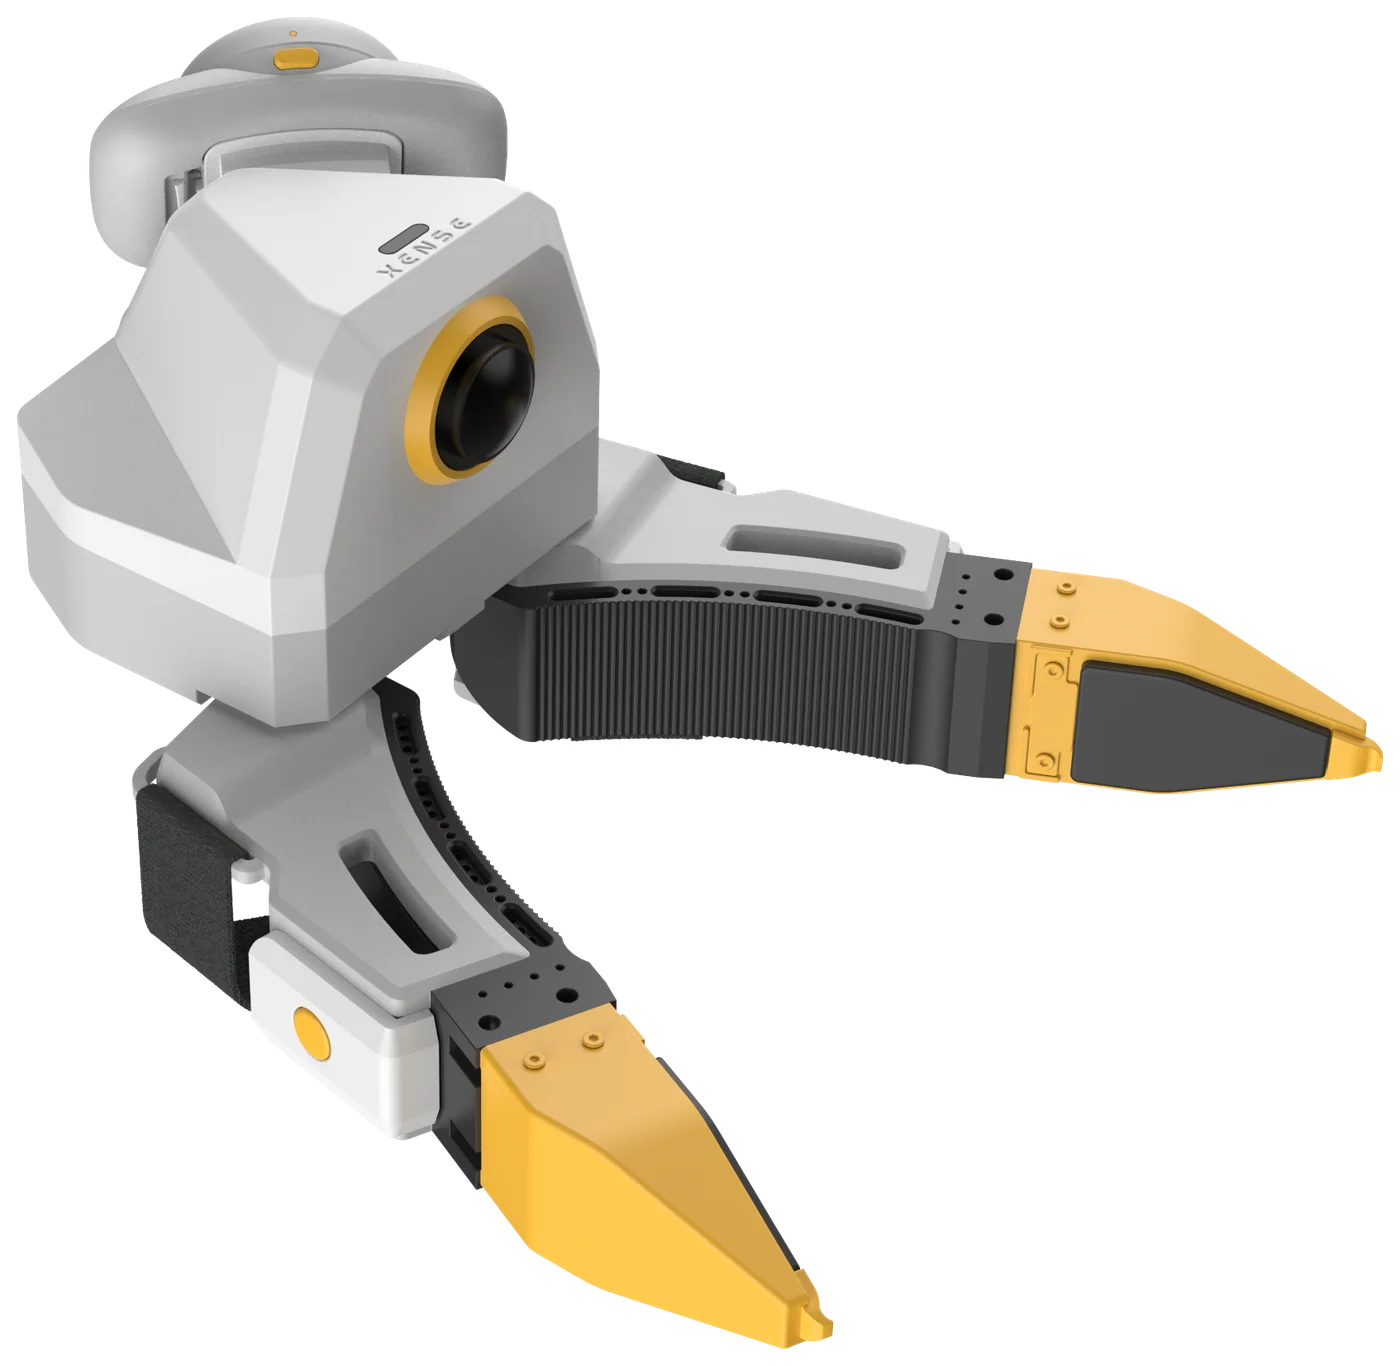
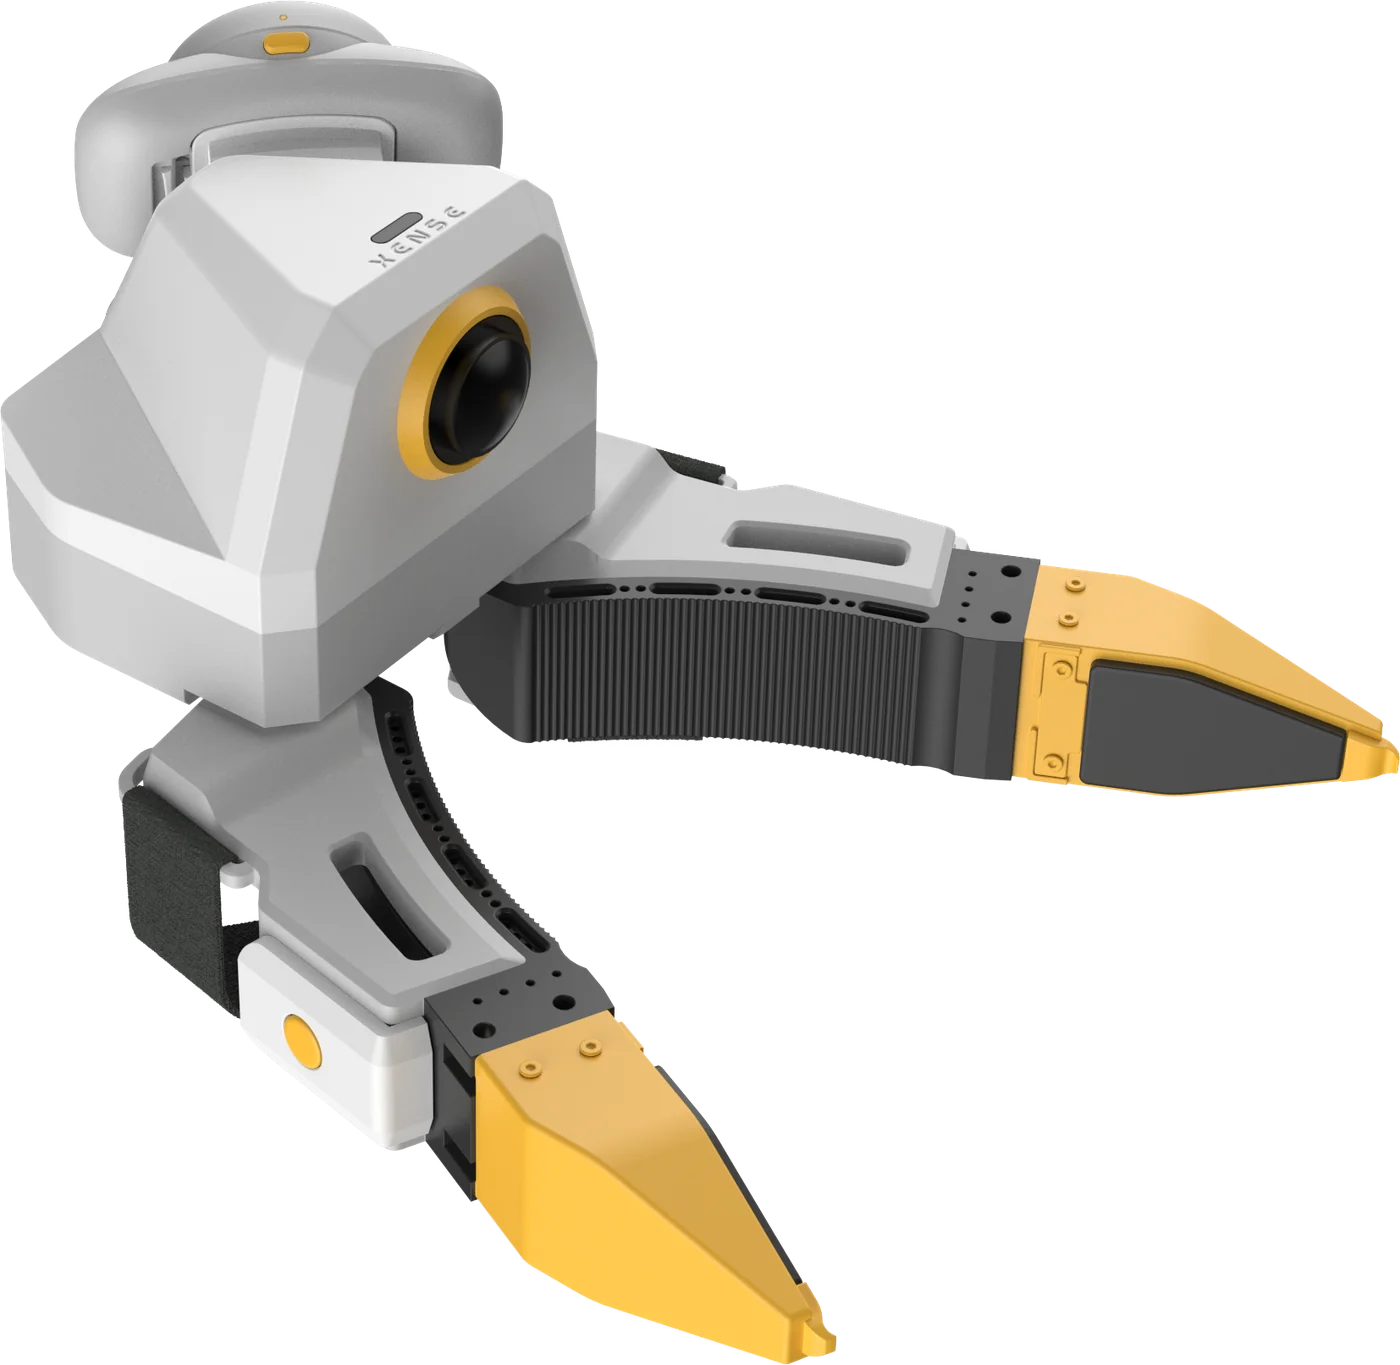
docs: 首页首屏细调:主从夹爪对齐,标题与说明重新排版
- 两栏宽度按两张图的宽高比分配;从夹爪缩到主夹爪高度的 65%,
  下方按比例留白,与主夹爪上下居中,图注在同一行
- 主夹爪抠图重新导出,去掉四周透明边
- 标题分两行、去掉逗号,隐藏首屏标题的 ¶ 锚点
- 说明拆成主句与小字两层,手动分行、行末不加标点,产品名内不折行;
  英文标题与说明收短,手机上标题小一档

diff --git a/docs/assets/stylesheets/extra.css b/docs/assets/stylesheets/extra.css
@@ -17,26 +17,49 @@
   letter-spacing: -.01em;
   color: var(--md-default-fg-color);
 }
-.md-typeset .tc-nowrap {
-  white-space: nowrap;   /* 标题固定在逗号后折行 */
+/* 英文标题更长,字号小一档,保证每个短语一行 */
+html[lang="en"] .md-typeset .tc-hero h1 {
+  font-size: 1.9rem;
+}
+/* 首屏标题的 ¶ 锚点用不上 */
+.md-typeset .tc-hero h1 .headerlink {
+  display: none;
+}
+/* 说明文字两层:主句说能得到什么,小字交代设备。行已在文案里手动断好;
+   中文只在标点、空格处折行,产品名内部用 &nbsp; 连住 */
+.md-typeset .tc-hero .tc-sub,
+.md-typeset .tc-hero .tc-note {
+  word-break: keep-all;
 }
 .md-typeset .tc-hero .tc-sub {
-  max-width: 26em;
-  margin: 0 0 1.4rem;
-  font-size: .95rem;
-  line-height: 1.7;
+  margin: 0 0 .5rem;
+  font-size: 1.05rem;
+  line-height: 1.6;
+  color: var(--md-default-fg-color);
+}
+.md-typeset .tc-hero .tc-note {
+  margin: 0 0 1.5rem;
+  font-size: .8rem;
+  line-height: 1.6;
   color: var(--md-default-fg-color--light);
 }
 .md-typeset .tc-hero .md-button {
   margin: 0 .5rem .5rem 0;
 }
 
-/* 右栏:主夹爪、从夹爪两张透明底渲染图并排,底边对齐,图注在图下 */
+/* 右栏:主夹爪、从夹爪两张透明底渲染图并排,图注在同一行。
+   两栏宽度按宽高比分配:主夹爪 1400×1365 → 1.026;从夹爪 1400×781 → 1.793,
+   再乘 k = 0.65,让从夹爪显示为主夹爪高度的 65%。
+   从夹爪图下方留白 (1-k)/(2×1.793×k) = 15% 栏宽,使它与主夹爪上下居中对齐。
+   换图或改 k 时同步改这几个数 */
 .md-typeset .tc-stage {
   display: grid;
-  grid-template-columns: 1fr 1.25fr;
-  gap: 1.2rem;
+  grid-template-columns: 1.026fr 1.165fr;
+  gap: 1.6rem;
   align-items: end;
+}
+.md-typeset .tc-tile--follower img {
+  margin-bottom: 15%;
 }
 .md-typeset .tc-tile {
   margin: 0;
@@ -72,6 +95,9 @@
 @media screen and (max-width: 30em) {
   .md-typeset .tc-hero h1 {
     font-size: 1.9rem;
+  }
+  html[lang="en"] .md-typeset .tc-hero h1 {
+    font-size: 1.5rem;
   }
 }
 

diff --git a/docs/index.en.md b/docs/index.en.md
@@ -8,9 +8,11 @@ hide:
 
 <div class="tc-hero__text" markdown>
 
-# Handheld tactile data collection, from unboxing to a dataset
+# Handheld tactile capture<br>from unboxing to dataset
 
-<p class="tc-sub">XTac-UMI G1 works with the Pico4 Ultra Enterprise headset to record vision, touch and hand and head pose in sync with lerobot, giving you a training-ready <code>LeRobotDataset</code>.</p>
+<p class="tc-sub">Record vision, touch and pose in sync<br>straight into a training-ready <code>LeRobotDataset</code></p>
+
+<p class="tc-note">XTac-UMI&nbsp;G1 grippers with Pico4&nbsp;Ultra&nbsp;Enterprise<br>headset and trackers, built on lerobot</p>
 
 [Quickstart](quickstart.md){ .md-button .md-button--primary }
 [About the device](01-overview.md){ .md-button }

diff --git a/docs/index.md b/docs/index.md
@@ -8,9 +8,11 @@ hide:
 
 <div class="tc-hero__text" markdown>
 
-# 手持触觉数采,<span class="tc-nowrap">从开箱到数据集</span>
+# 手持触觉数采<br>从开箱到数据集
 
-<p class="tc-sub">XTac-UMI G1 配合 Pico4 Ultra 企业版,用 lerobot 同步录下视觉、触觉和手部与头部位姿,直接得到可训练的 <code>LeRobotDataset</code>。</p>
+<p class="tc-sub">同步录下视觉、触觉、手部与头部位姿<br>直接生成可训练的 <code>LeRobotDataset</code></p>
+
+<p class="tc-note">XTac-UMI&nbsp;G1 夹爪配合 Pico4&nbsp;Ultra&nbsp;企业版头显与追踪器<br>基于 lerobot 采集</p>
 
 [一页速通](quickstart.md){ .md-button .md-button--primary }
 [了解设备](01-overview.md){ .md-button }
